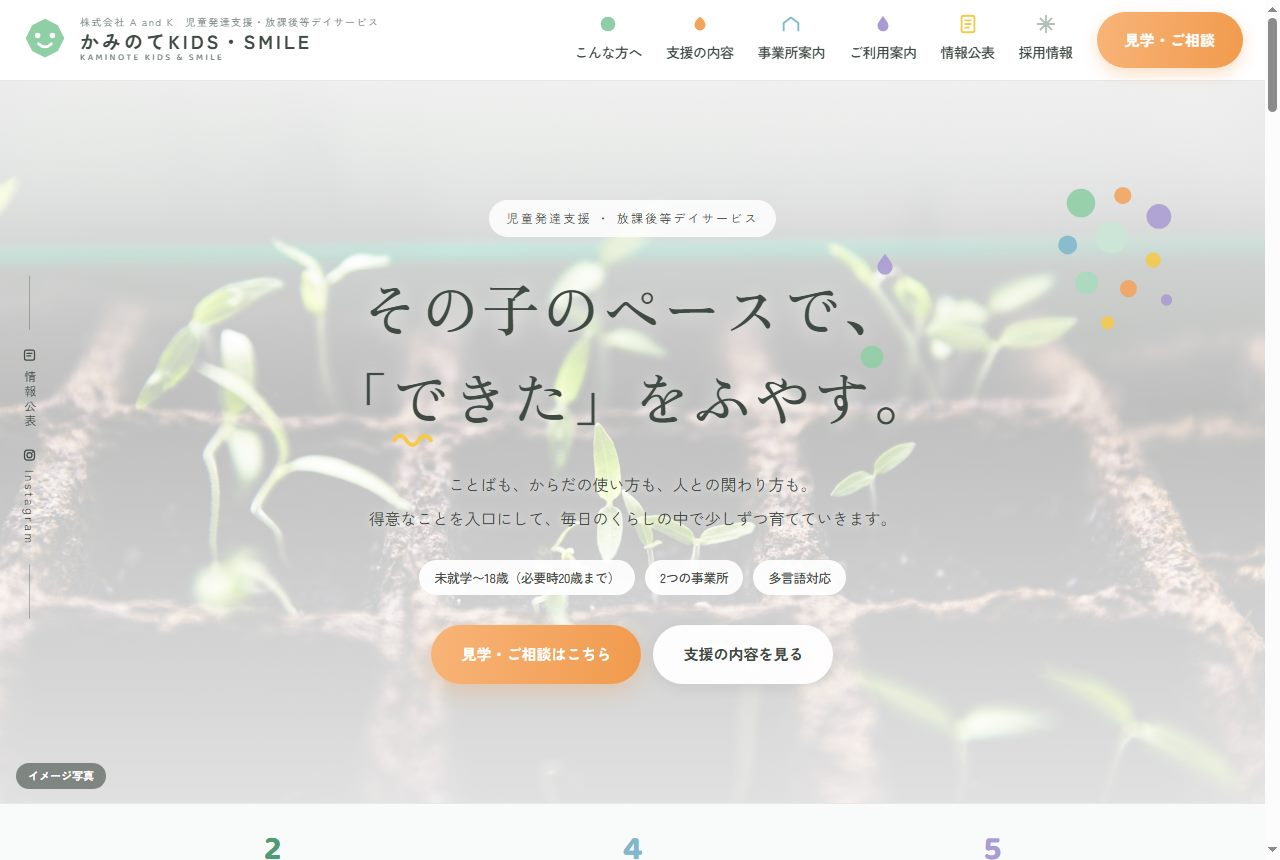
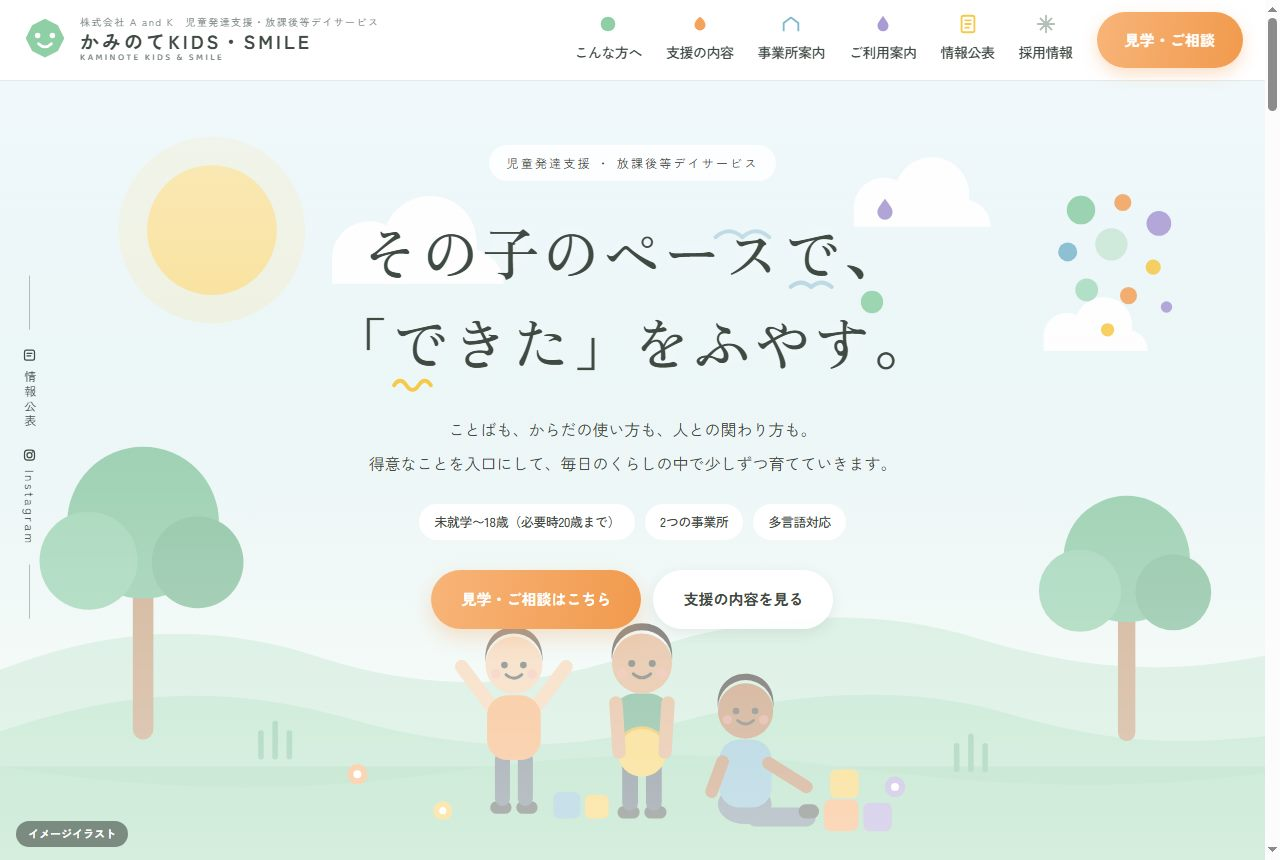
放課後等デイのトップがイラストになったことを資料に反映する
プレビュー画像3枚を差し替え、説明文の「写真」を「イラスト」に直した。
あわせて、トップの絵がこちらで描き起こしたものであること、撮影後に
写真へ差し替えても、このままイラストで進めても選べること、イラストなら
素材の使用料がかからないことを1段落で足した。

案Cの説明にあった「よいお写真がそろっているかで印象が変わる」は、
イラストになって当てはまらなくなったので落とし、白い文字のために絵を
暗く沈ませる＝3案でいちばん落ち着いた印象になる、という説明に変えた。

diff --git a/design.html b/design.html
@@ -612,6 +612,11 @@
       <strong>支援プログラム・自己評価・保護者評価の公表欄</strong>も3案とも入れてあります。
       保育園サイトと同じ案（AならA）でそろえると、2つのサイトが並んだときにいちばん統一して見えます。</p>
 
+      <p style="margin:0 0 1.4rem">トップの絵は<strong>こちらで描き起こしたイラスト</strong>です（3案とも同じもの）。
+      お子さまの様子が伝わる写真は撮影しないと用意できないため、それまでのあいだトップが寂しくならないようにしています。
+      <strong>撮影後に写真へ差し替えることも、このままイラストで進めることもできます。</strong>
+      イラストのままにする場合、素材の使用料はかかりません。</p>
+
       <div class="mock">
         <div class="mock-head">
           <h3>放課後等デイサイト　案A</h3>
@@ -620,7 +625,7 @@
         <a class="shot" href="https://k-matsumoto527.github.io/kaminote-day-design/plan-a.html" target="_blank" rel="noopener">
           <img src="img/preview-day-a.jpg" alt="放課後等デイサイト トップページ デザイン案A" width="1280" height="860" loading="lazy">
         </a>
-        <p class="mock-note">白いヘッダーにアイコン付きのメニューを並べ、その下の大きな写真に明朝体の見出しを重ねました。パステルグリーンに卵色・空色を少しずつ添えています。保育園サイトの案Aと対になる作りです。</p>
+        <p class="mock-note">白いヘッダーにアイコン付きのメニューを並べ、その下の大きなイラストに明朝体の見出しを重ねました。パステルグリーンに卵色・空色を少しずつ添えています。保育園サイトの案Aと対になる作りです。</p>
         <a class="open-btn" href="https://k-matsumoto527.github.io/kaminote-day-design/plan-a.html" target="_blank" rel="noopener">実物を見る</a>
         <div class="open-url">https://k-matsumoto527.github.io/kaminote-day-design/plan-a.html</div>
       </div>
@@ -633,7 +638,7 @@
         <a class="shot" href="https://k-matsumoto527.github.io/kaminote-day-design/plan-b.html" target="_blank" rel="noopener">
           <img src="img/preview-day-b.jpg" alt="放課後等デイサイト トップページ デザイン案B" width="1280" height="860" loading="lazy">
         </a>
-        <p class="mock-note">写真をまるく切り抜き、区切りを波線にした案です。丸みのある書体で、<strong>3案のなかでいちばん親しみやすい</strong>印象になります。はじめてご覧になる保護者の方に、やさしい第一印象を持ってもらいたい場合に向いています。</p>
+        <p class="mock-note">イラストをまるく切り抜き、区切りを波線にした案です。丸みのある書体で、<strong>3案のなかでいちばん親しみやすい</strong>印象になります。はじめてご覧になる保護者の方に、やさしい第一印象を持ってもらいたい場合に向いています。</p>
         <a class="open-btn" href="https://k-matsumoto527.github.io/kaminote-day-design/plan-b.html" target="_blank" rel="noopener">実物を見る</a>
         <div class="open-url">https://k-matsumoto527.github.io/kaminote-day-design/plan-b.html</div>
       </div>
@@ -646,7 +651,7 @@
         <a class="shot" href="https://k-matsumoto527.github.io/kaminote-day-design/plan-c.html" target="_blank" rel="noopener">
           <img src="img/preview-day-c.jpg" alt="放課後等デイサイト トップページ デザイン案C" width="1280" height="860" loading="lazy">
         </a>
-        <p class="mock-note">白いヘッダーを置かず、開いた瞬間は<strong>写真だけが画面いっぱい</strong>に広がる案です。事業所名を中央に、メニューを左右に振り分け、園の言葉は<strong>縦書き</strong>で置きました。落ち着いた雰囲気になるぶん、よいお写真がそろっているかで印象が変わる案でもあります。</p>
+        <p class="mock-note">白いヘッダーを置かず、開いた瞬間は<strong>絵だけが画面いっぱい</strong>に広がる案です。事業所名を中央に、メニューを左右に振り分け、事業所の言葉は<strong>縦書き</strong>で置きました。文字を白で置くぶん絵を暗く沈ませるので、<strong>3案のなかではいちばん落ち着いた印象</strong>になります。</p>
         <a class="open-btn" href="https://k-matsumoto527.github.io/kaminote-day-design/plan-c.html" target="_blank" rel="noopener">実物を見る</a>
         <div class="open-url">https://k-matsumoto527.github.io/kaminote-day-design/plan-c.html</div>
       </div>

diff --git a/src/design-kaminote.html b/src/design-kaminote.html
@@ -589,6 +589,11 @@
       <strong>支援プログラム・自己評価・保護者評価の公表欄</strong>も3案とも入れてあります。
       保育園サイトと同じ案（AならA）でそろえると、2つのサイトが並んだときにいちばん統一して見えます。</p>
 
+      <p style="margin:0 0 1.4rem">トップの絵は<strong>こちらで描き起こしたイラスト</strong>です（3案とも同じもの）。
+      お子さまの様子が伝わる写真は撮影しないと用意できないため、それまでのあいだトップが寂しくならないようにしています。
+      <strong>撮影後に写真へ差し替えることも、このままイラストで進めることもできます。</strong>
+      イラストのままにする場合、素材の使用料はかかりません。</p>
+
       <div class="mock">
         <div class="mock-head">
           <h3>放課後等デイサイト　案A</h3>
@@ -597,7 +602,7 @@
         <a class="shot" href="https://k-matsumoto527.github.io/kaminote-day-design/plan-a.html" target="_blank" rel="noopener">
           <img src="img/preview-day-a.jpg" alt="放課後等デイサイト トップページ デザイン案A" width="1280" height="860" loading="lazy">
         </a>
-        <p class="mock-note">白いヘッダーにアイコン付きのメニューを並べ、その下の大きな写真に明朝体の見出しを重ねました。パステルグリーンに卵色・空色を少しずつ添えています。保育園サイトの案Aと対になる作りです。</p>
+        <p class="mock-note">白いヘッダーにアイコン付きのメニューを並べ、その下の大きなイラストに明朝体の見出しを重ねました。パステルグリーンに卵色・空色を少しずつ添えています。保育園サイトの案Aと対になる作りです。</p>
         <a class="open-btn" href="https://k-matsumoto527.github.io/kaminote-day-design/plan-a.html" target="_blank" rel="noopener">実物を見る</a>
         <div class="open-url">https://k-matsumoto527.github.io/kaminote-day-design/plan-a.html</div>
       </div>
@@ -610,7 +615,7 @@
         <a class="shot" href="https://k-matsumoto527.github.io/kaminote-day-design/plan-b.html" target="_blank" rel="noopener">
           <img src="img/preview-day-b.jpg" alt="放課後等デイサイト トップページ デザイン案B" width="1280" height="860" loading="lazy">
         </a>
-        <p class="mock-note">写真をまるく切り抜き、区切りを波線にした案です。丸みのある書体で、<strong>3案のなかでいちばん親しみやすい</strong>印象になります。はじめてご覧になる保護者の方に、やさしい第一印象を持ってもらいたい場合に向いています。</p>
+        <p class="mock-note">イラストをまるく切り抜き、区切りを波線にした案です。丸みのある書体で、<strong>3案のなかでいちばん親しみやすい</strong>印象になります。はじめてご覧になる保護者の方に、やさしい第一印象を持ってもらいたい場合に向いています。</p>
         <a class="open-btn" href="https://k-matsumoto527.github.io/kaminote-day-design/plan-b.html" target="_blank" rel="noopener">実物を見る</a>
         <div class="open-url">https://k-matsumoto527.github.io/kaminote-day-design/plan-b.html</div>
       </div>
@@ -623,7 +628,7 @@
         <a class="shot" href="https://k-matsumoto527.github.io/kaminote-day-design/plan-c.html" target="_blank" rel="noopener">
           <img src="img/preview-day-c.jpg" alt="放課後等デイサイト トップページ デザイン案C" width="1280" height="860" loading="lazy">
         </a>
-        <p class="mock-note">白いヘッダーを置かず、開いた瞬間は<strong>写真だけが画面いっぱい</strong>に広がる案です。事業所名を中央に、メニューを左右に振り分け、園の言葉は<strong>縦書き</strong>で置きました。落ち着いた雰囲気になるぶん、よいお写真がそろっているかで印象が変わる案でもあります。</p>
+        <p class="mock-note">白いヘッダーを置かず、開いた瞬間は<strong>絵だけが画面いっぱい</strong>に広がる案です。事業所名を中央に、メニューを左右に振り分け、事業所の言葉は<strong>縦書き</strong>で置きました。文字を白で置くぶん絵を暗く沈ませるので、<strong>3案のなかではいちばん落ち着いた印象</strong>になります。</p>
         <a class="open-btn" href="https://k-matsumoto527.github.io/kaminote-day-design/plan-c.html" target="_blank" rel="noopener">実物を見る</a>
         <div class="open-url">https://k-matsumoto527.github.io/kaminote-day-design/plan-c.html</div>
       </div>
